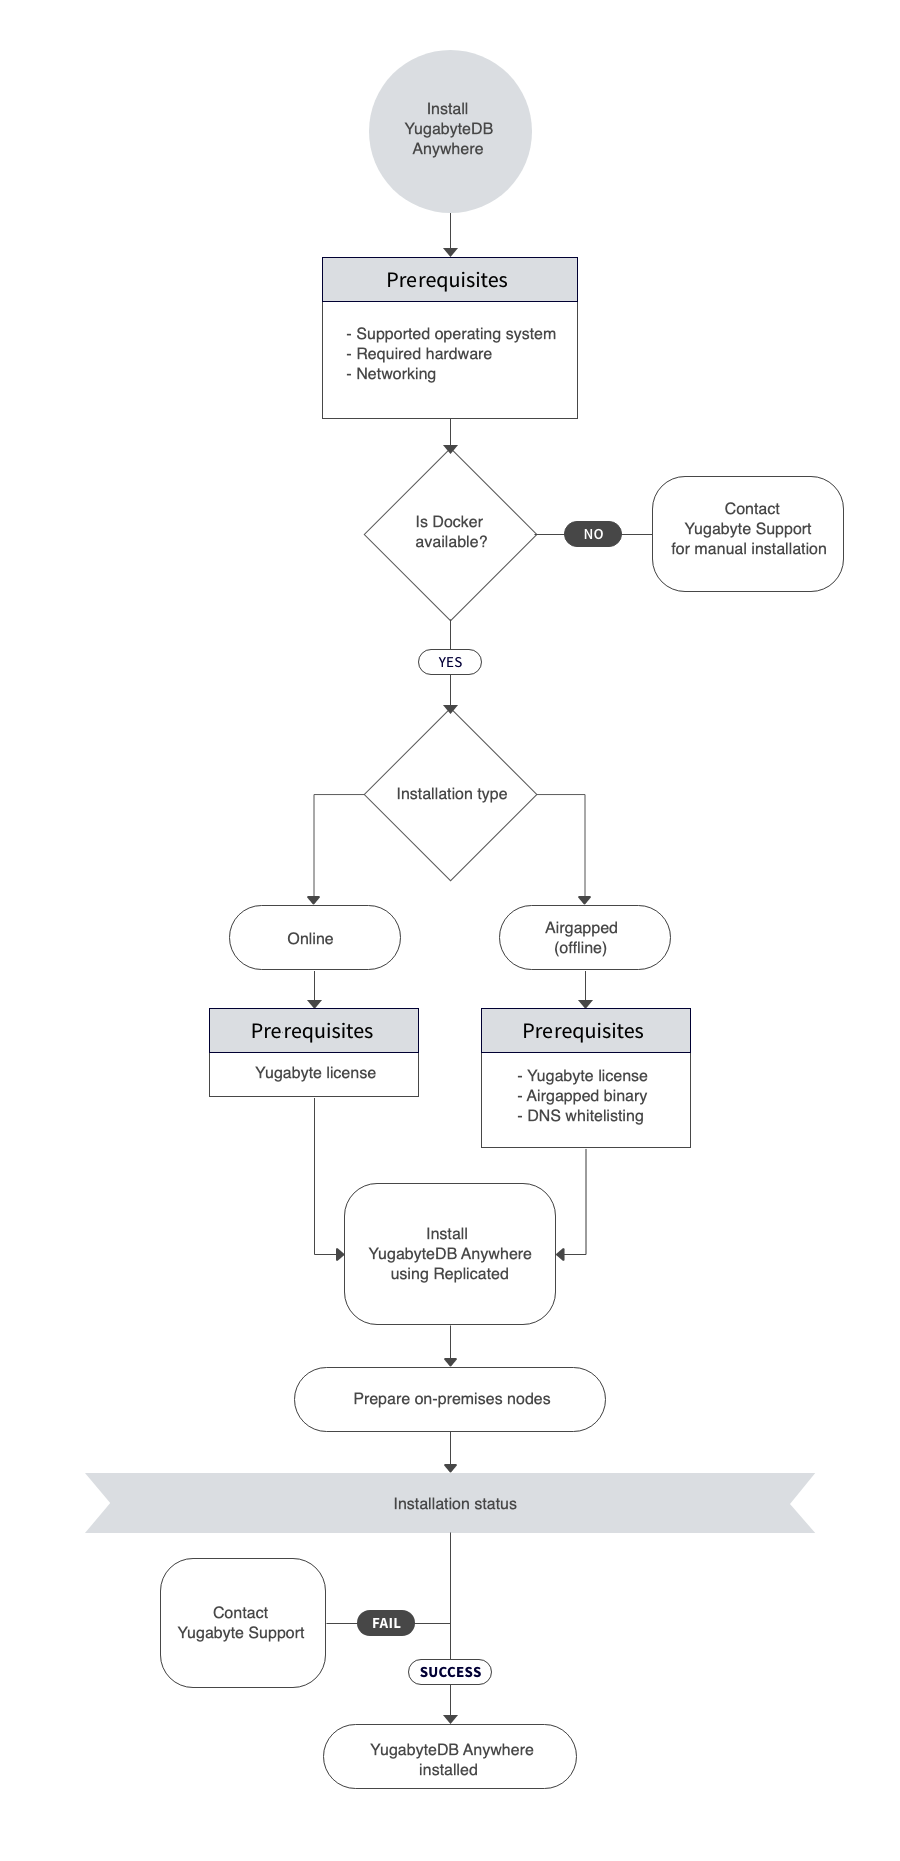
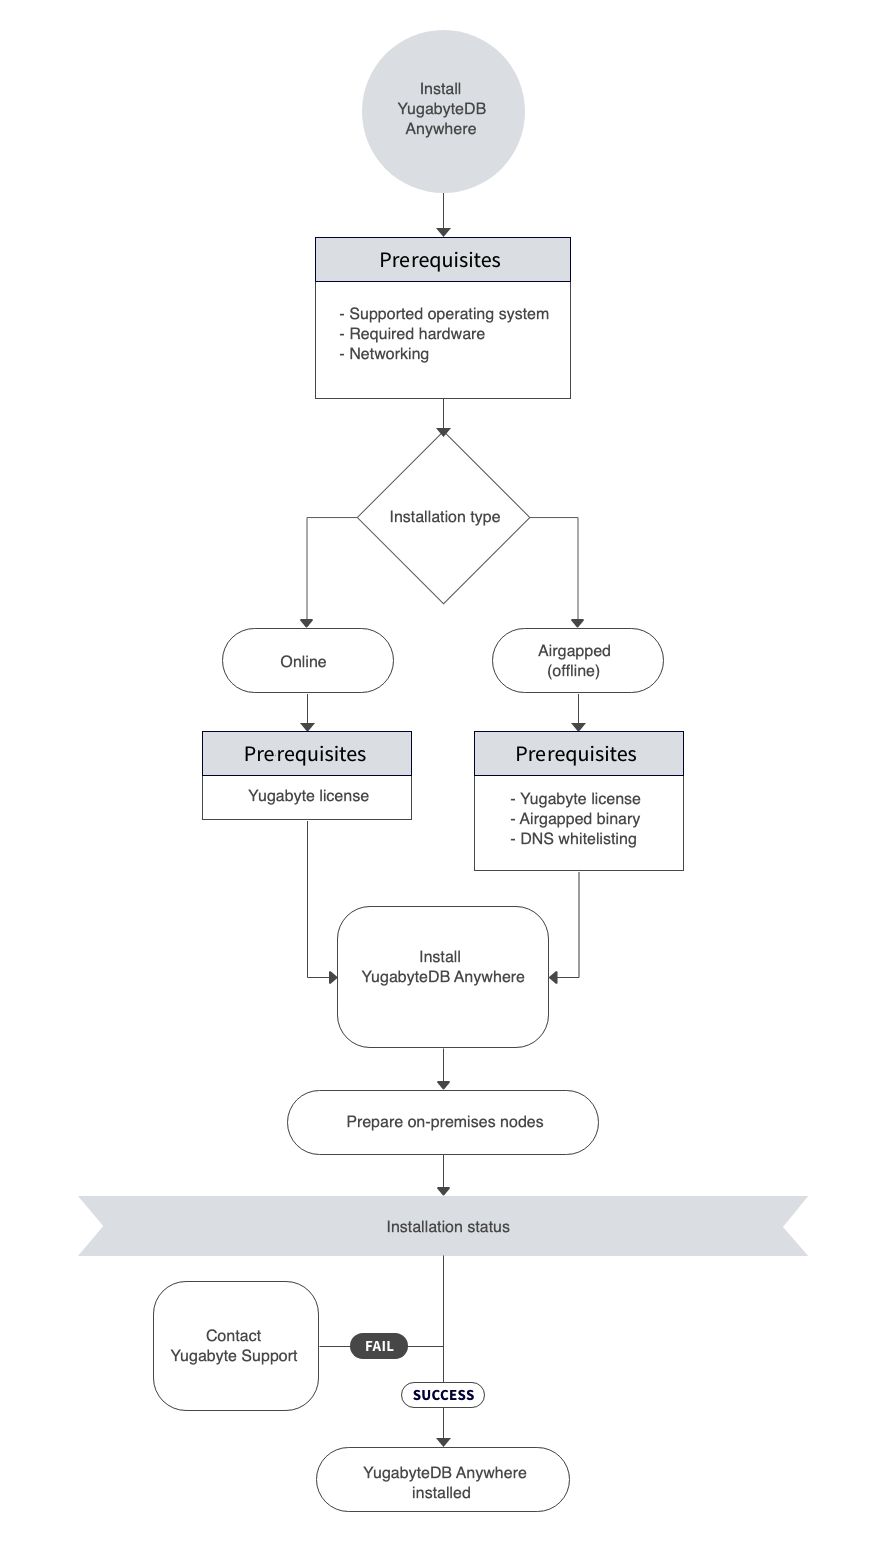
Update images, combine replicated and airgapped

diff --git a/docs/content/preview/yugabyte-platform/install-yugabyte-platform/install-software/default.md b/docs/content/preview/yugabyte-platform/install-yugabyte-platform/install-software/default.md
@@ -31,11 +31,6 @@ Note: For higher availability, one or more additional YugabyteDB Anywhere instan
   </li>
 
   <li>
-    <a href="../airgapped/" class="nav-link">
-      <i class="fa-solid fa-link-slash"></i>Replicated - Airgapped</a>
-  </li>
-
-  <li>
     <a href="../kubernetes/" class="nav-link">
       <i class="fa-regular fa-dharmachakra" aria-hidden="true"></i>Kubernetes</a>
   </li>
@@ -47,9 +42,13 @@ Note: For higher availability, one or more additional YugabyteDB Anywhere instan
 
 </ul>
 
-Install YugabyteDB Anywhere on a host machine that is connected to the Internet using Replicated.
+You can install YugabyteDB Anywhere on a host machine using Replicated in both online and airgapped environments.
 
 ## Install Replicated
+
+{{< tabpane text=true >}}
+
+  {{% tab header="Online" lang="Online" %}}
 
 The first step is to connect to the host instance and then install Replicated by executing the following command:
 
@@ -74,9 +73,85 @@ You should see an output similar to the following:
 
 ![Replicated successfully installed](/images/replicated/replicated-success.png)
 
+  {{% /tab %}}
+
+  {{% tab header="Airgapped" lang="Airgapped" %}}
+
+If Docker is not installed on the host computer, you need to install a recent version that matches the minimum requirements outlined in [Installing Docker in Airgapped Environments](https://community.replicated.com/t/installing-docker-in-airgapped-environments/81).
+
+If access to the Docker repositories for your Linux distribution is not available on the host computer, you may have to manually transfer the necessary RPM or DEB packages whose locations are specified in [Installing Docker in Airgapped Environments](https://community.replicated.com/t/installing-docker-in-airgapped-environments/81).
+
+Refer to [Airgapped hosts](../../prerequisites/default/#airgapped-hosts) for more details on preparing your host machine.
+
+On a computer connected to the Internet, perform the following steps:
+
+- Make a directory for downloading the binaries by executing the following command:
+
+  ```sh
+  sudo mkdir /opt/downloads
+  ```
+
+- Change the owner user for the directory by executing the following command:
+
+  ```sh
+  sudo chown -R ubuntu:ubuntu /opt/downloads
+  ```
+
+- Change to the directory by executing the following command:
+
+  ```sh
+  cd /opt/downloads
+  ```
+
+- Download the `replicated.tar.gz` file by executing the following command:
+
+  ```sh
+  wget --trust-server-names https://get.replicated.com/airgap
+  ```
+
+- Download the `yugaware` binary and change the following number, as required:
+
+  ```sh
+  wget https://downloads.yugabyte.com/releases/{{<yb-version version="preview">}}/yugaware-{{<yb-version version="preview" format="build">}}-linux-x86_64.airgap
+  ```
+
+- Switch to the following directory:
+
+  ```sh
+  cd /opt/downloads
+  ```
+
+- Extract the `replicated` binary, as follows:
+
+  ```sh
+  tar xzvf replicated.tar.gz
+  ```
+
+- Install Replicated. If multiple options appear, select the `eth0` network interface, as follows:
+
+  ```sh
+  cat ./install.sh | sudo bash -s airgap
+  ```
+
+The `yugaware` binary is installed using the Replicated UI after the Replicated installation completes.
+
+After Replicated finishes installing, ensure that it is running by executing the following command:
+
+```sh
+sudo docker ps
+```
+
+You should see an output similar to the following:
+
+![Replicated successfully installed](/images/replicated/replicated-success.png)
+
+  {{% /tab %}}
+
+{{< /tabpane >}}
+
 ## Set up HTTPS (optional)
 
-Launch the Replicated UI via http://< yugabyte-platform-host-public-ip >:8800. Expect to see a warning stating that the connection to the server is not yet private. This condition is resolved once HTTPS for the Replicated Admin Console is set up. Proceed by clicking **Continue to Setup > ADVANCED** to bypass the warning and access the Replicated Admin Console, as per the following illustration:
+Launch the Replicated UI via [http://yugaware-host-public-ip:8800](http://yugaware-host-public-ip:8800). Expect to see a warning stating that the connection to the server is not yet private. This condition is resolved once HTTPS for the Replicated Admin Console is set up in the next step. Proceed by clicking **Continue to Setup > ADVANCED** to bypass the warning and access the **Replicated Admin Console**, as shown in the following illustration:
 
 ![Replicated SSL warning](/images/replicated/replicated-warning.png)
 
@@ -90,13 +165,15 @@ It is recommended that you start with using a self-signed certificate, and then 
 
 ## Upload the license file
 
-When prompted, upload the Yugabyte license file that you received from Yugabyte, as per the following illustration:
+Upload the Yugabyte license file that you received from [Yugabyte](https://www.yugabyte.com/platform/#request-trial-form), as shown in the following illustration:
 
 ![Replicated License Upload](/images/replicated/replicated-license-upload.png)
 
-If you are prompted to choose an installation type, choose **Online**.
+When prompted to choose the installation type, do one of the following:
 
-If you are offered a choice of software versions, select the one that meets your requirements.
+- **Online** - If you are performing an online installation, choose the **Online** installation type and click **Continue**. If you are offered a choice of software versions, select the one that meets your requirements.
+
+- **Airgapped** - If you are performing an airgapped installation, choose the **Airgapped** installation type, enter the absolute path to the YugabyteDB Anywhere airgapped install package that you obtained from Yugabyte Suppport, and click **Continue**.
 
 ## Secure Replicated
 
@@ -116,7 +193,7 @@ If the preflight check fails, review the [Troubleshoot YugabyteDB Anywhere](../.
 
 ## Set the TLS version for Yugaware frontend
 
-Specify TLS versions via **Application config**, as shown in the following illustration:
+Under **Application config**, specify TLS versions as shown in the following illustration:
 
 ![Application Config](/images/replicated/application-config-tls.png)
 

diff --git a/docs/content/preview/yugabyte-platform/install-yugabyte-platform/install/private-cloud.md b/docs/content/preview/yugabyte-platform/install-yugabyte-platform/install/private-cloud.md
@@ -50,11 +50,11 @@ The following diagram shows the YugabyteDB Anywhere installation process in a pr
 <img src="/images/ee/flowchart/yb-install-private-cloud.png" usemap="#image-map">
 
 <map name="image-map">
-    <area alt="Pre reqs" title="Pre reqs" href="../../prerequisites/default/" coords="323,255,572,412" shape="rect" style="top: 14%;height: 8.6%;left: 36%;width: 28%;">
-    <area alt="Online installation" title="Online installation" href="../../install-software/default/" coords="239,907,396,970" shape="rect" style="top: 48.7%;height: 3.5%;left: 25%;width: 20%;">
-    <area alt="Airgapped installation" title="Airgapped installation" href="../../install-software/airgapped/" coords="512,909,663,967" shape="rect" style="top: 48.7%;height: 3.5%;left: 55%;width: 20%;">
-    <area alt="Airgapped installation - pre reqs" title="Airgapped installation - pre reqs" href="../../install-software/airgapped/" coords="482,1008,688,1141" shape="rect" style="top: 54%;height: 8%;left: 53%;width: 24%;">
-    <area alt="Online installation - pre reqs" title="Online installation - pre reqs" href="../../install-software/default/" coords="" shape="rect" style="top: 54%;height: 5%;left: 23%;width: 24%;">
-    <area alt="Prepare on prem nodes" title="Prepare on prem nodes" href="../../prepare-on-prem-nodes/" coords="307,1371,597,1429" shape="rect" style="top: 73.4%;height: 3.6%;left: 33%;width: 34%;">
+    <area alt="Pre reqs" title="Pre reqs" href="../../prerequisites/installer/" coords="323,255,572,412" shape="rect" style="top: 14%;height: 8.6%;left: 36%;width: 28%;">
+    <area alt="Online installation" title="Online installation" href="../../install-software/installer/" coords="239,707,396,770" shape="rect" style="top: 40.7%;height: 3.5%;left: 25%;width: 20%;">
+    <area alt="Airgapped installation" title="Airgapped installation" href="../../install-software/installer/" coords="512,709,663,767" shape="rect" style="top: 40.7%;height: 3.5%;left: 55%;width: 20%;">
+    <area alt="Online installation - pre reqs" title="Online installation - pre reqs" href="../../install-software/installer/" coords="" shape="rect" style="top: 47%;height: 6%;left: 23%;width: 24%;">
+    <area alt="Airgapped installation - pre reqs" title="Airgapped installation - pre reqs" href="../../install-software/installer/" coords="482,808,688,841" shape="rect" style="top: 47%;height: 10%;left: 53%;width: 24%;">
+    <area alt="Prepare on premises nodes" title="Prepare on premises nodes" href="../../prepare-on-prem-nodes/" coords="307,1200,597,1250" shape="rect" style="top: 70.4%;height: 3.6%;left: 33%;width: 34%;">
 </map>
 </div>

diff --git a/docs/content/preview/yugabyte-platform/install-yugabyte-platform/prerequisites-include.md b/docs/content/preview/yugabyte-platform/install-yugabyte-platform/prerequisites-include.md
@@ -99,22 +99,22 @@ You need to perform the following steps:
    ```properties
    image:
    commonRegistry: ""
-    	repository: **quay.io/yugabyte/yugaware**
-    	tag: **{{ version.build }}**
+      repository: **quay.io/yugabyte/yugaware**
+      tag: **{{ version.build }}**
    pullPolicy: IfNotPresent
    pullSecret: yugabyte-k8s-pull-secret
    thirdparty-deps:
-   	registry: quay.io
-   	tag: **latest**
-   	name: **yugabyte/thirdparty-deps**
+      registry: quay.io
+      tag: **latest**
+      name: **yugabyte/thirdparty-deps**
    prometheus:
-   	registry: ""
-   	tag:  **{{ version.prometheus }}**
-   	name: **prom/prometheus**
+      registry: ""
+      tag:  **{{ version.prometheus }}**
+      name: **prom/prometheus**
    nginx:
-   	registry: ""
-   	tag: **{{ version.nginx }}**
-   	name: nginx
+      registry: ""
+      tag: **{{ version.nginx }}**
+      name: nginx
    ```
 
 1. Pull images to your Docker Desktop, as follows:
@@ -298,25 +298,25 @@ You need to perform the following steps:
       pullPolicy: IfNotPresent
       pullSecret: yugabyte-k8s-pull-secret
       thirdparty-deps:
-      		registry: /yugabyte/thhirdparty-deps
-   			tag: **latest**
-   			name: **yugabyte/thirdparty-deps**
+            registry: /yugabyte/thhirdparty-deps
+            tag: **latest**
+            name: **yugabyte/thirdparty-deps**
       postgres:
-   			registry: "yugabyte/postgres"
-   			tag: 11.5
-   			name: **postgres**
+            registry: "yugabyte/postgres"
+            tag: 11.5
+            name: **postgres**
       prometheus:
-   			registry: "prom/prometheus"
-   			tag: **v2.2.1**
-   			name: **prom/prometheus**
+            registry: "prom/prometheus"
+            tag: **v2.2.1**
+            name: **prom/prometheus**
       nginx:
-   			registry: "yugabyte/nginx"
-   			tag: **1.17.4**
-   			name: nginx
+            registry: "yugabyte/nginx"
+            tag: **1.17.4**
+            name: nginx
       dnsmasq:
-   			registry: "janeczku/go-dnsmasq/"
-   			tag: **release-1.0.7**
-   			name: **janeczku/go-dnsmasq
+            registry: "janeczku/go-dnsmasq/"
+            tag: **release-1.0.7**
+            name: **janeczku/go-dnsmasq
    ```
 
 1. Install Helm chart or specify the container registry in YugabyteDB Anywhere cloud provider, as follows:

diff --git a/docs/content/preview/yugabyte-platform/install-yugabyte-platform/install-software/airgapped.md b/docs/content/preview/yugabyte-platform/install-yugabyte-platform/install-software/airgapped.md
@@ -121,7 +121,7 @@ The next step is to install YugabyteDB Anywhere.
 
 ## Set Up HTTPS (optional)
 
-Launch the Replicated UI via [http://yugaware-host-public-ip:8800](http://yugaware-host-public-ip:8800). Expect to see a warning stating that the connection to the server is not yet private. This condition is resolved once HTTPS for the Replicated Admin Console is set up in the next step. Proceed by clicking **Continue to Setup** **>** **ADVANCED** to bypass the warning and access the **Replicated Admin Console**, as shown in the following illustration:
+Launch the Replicated UI via [http://yugaware-host-public-ip:8800](http://yugaware-host-public-ip:8800). Expect to see a warning stating that the connection to the server is not yet private. This condition is resolved once HTTPS for the Replicated Admin Console is set up in the next step. Proceed by clicking **Continue to Setup > ADVANCED** to bypass the warning and access the **Replicated Admin Console**, as shown in the following illustration:
 
 ![Replicated SSL warning](/images/replicated/replicated-warning.png)
 
@@ -153,7 +153,7 @@ Add a password to protect the Replicated Admin Console, which is different from 
 
 ![Replicated Password](/images/replicated/replicated-password.png)
 
-## Preflight checks
+## Perform preflight checks
 
 Replicated performs a set of preflight checks to ensure that the host is set up correctly for YugabyteDB Anywhere, as shown in the following illustration:
 

diff --git a/docs/content/preview/yugabyte-platform/install-yugabyte-platform/install-software/installer.md b/docs/content/preview/yugabyte-platform/install-yugabyte-platform/install-software/installer.md
@@ -31,11 +31,6 @@ Note: For higher availability, one or more additional YBA instances can be separ
   </li>
 
   <li>
-    <a href="../airgapped/" class="nav-link">
-      <i class="fa-solid fa-link-slash"></i>Replicated - Airgapped</a>
-  </li>
-
-  <li>
     <a href="../kubernetes/" class="nav-link">
       <i class="fa-regular fa-dharmachakra" aria-hidden="true"></i>Kubernetes</a>
   </li>
@@ -47,7 +42,7 @@ Note: For higher availability, one or more additional YBA instances can be separ
 
 </ul>
 
-Use YBA Installer to install YBA on a host. YBA Installer performs preflight checks to validate the workspace is ready to run YBA. YBA Installer also provides basic functionality for managing installations, including backup and restore of an installation, upgrading, basic licensing, and uninstalling the software.
+Use YBA Installer to install YBA on a host, either online or airgapped. YBA Installer performs preflight checks to validate the workspace is ready to run YBA. YBA Installer also provides basic functionality for managing installations, including backup and restore of an installation, upgrading, basic licensing, and uninstalling the software.
 
 {{< warning >}}
 You can use YBA Installer only if you are about to perform a new install. Currently, you cannot switch your existing YBA software installed via Replicated to be installed using YBA Installer.

diff --git a/docs/content/preview/yugabyte-platform/install-yugabyte-platform/prerequisites/default.md b/docs/content/preview/yugabyte-platform/install-yugabyte-platform/prerequisites/default.md
@@ -16,13 +16,13 @@ You can install YugabyteDB Anywhere (YBA) using the following methods:
 
 | Method | Using | Use If |
 | :--- | :--- | :--- |
-| YBA Installer | yba-ctl CLI | You can't use Docker containers. |
-| Replicated | Docker containers | You're able to use Docker containers. |
+| YBA Installer | yba-ctl CLI | You are performing a reguler installation. |
+| Replicated | Docker containers | You want to use Docker containers. |
 | Kubernetes | Helm chart | You're deploying in Kubernetes. |
 
 All installation methods support installing YBA with and without (airgapped) Internet connectivity.
 
-Licensing (such as a license file in the case of Replicated, or appropriate repository access in the case of Kubernetes) may be required prior to installation.  Contact {{% support-platform %}} for assistance.
+Licensing (such as a license file in the case of YBA Installer or Replicated, or appropriate repository access in the case of Kubernetes) may be required prior to installation.  Contact {{% support-platform %}} for assistance.
 
 <ul class="nav nav-tabs-alt nav-tabs-yb">
 

diff --git a/docs/content/preview/yugabyte-platform/install-yugabyte-platform/prerequisites/installer.md b/docs/content/preview/yugabyte-platform/install-yugabyte-platform/prerequisites/installer.md
@@ -16,13 +16,13 @@ You can install YugabyteDB Anywhere (YBA) using the following methods:
 
 | Method | Using | Use If |
 | :--- | :--- | :--- |
-| YBA Installer | yba-ctl CLI | You can't use Docker containers. |
-| Replicated | Docker containers | You're able to use Docker containers. |
+| YBA Installer | yba-ctl CLI | You are performing a reguler installation. |
+| Replicated | Docker containers | You want to use Docker containers. |
 | Kubernetes | Helm chart | You're deploying in Kubernetes. |
 
 All installation methods support installing YBA with and without (airgapped) Internet connectivity.
 
-Licensing (such as a license file in the case of Replicated, or appropriate repository access in the case of Kubernetes) may be required prior to installation.  Contact {{% support-platform %}} for assistance.
+Licensing (such as a license file in the case of YBA Installer or Replicated, or appropriate repository access in the case of Kubernetes) may be required prior to installation.  Contact {{% support-platform %}} for assistance.
 
 <ul class="nav nav-tabs-alt nav-tabs-yb">
 

diff --git a/docs/content/preview/yugabyte-platform/install-yugabyte-platform/prerequisites/kubernetes.md b/docs/content/preview/yugabyte-platform/install-yugabyte-platform/prerequisites/kubernetes.md
@@ -16,13 +16,13 @@ You can install YugabyteDB Anywhere (YBA) using the following methods:
 
 | Method | Using | Use If |
 | :--- | :--- | :--- |
-| YBA Installer | yba-ctl CLI | You can't use Docker containers. |
-| Replicated | Docker containers | You're able to use Docker containers. |
+| YBA Installer | yba-ctl CLI | You are performing a reguler installation. |
+| Replicated | Docker containers | You want to use Docker containers. |
 | Kubernetes | Helm chart | You're deploying in Kubernetes. |
 
 All installation methods support installing YBA with and without (airgapped) Internet connectivity.
 
-Licensing (such as a license file in the case of Replicated, or appropriate repository access in the case of Kubernetes) may be required prior to installation.  Contact {{% support-platform %}} for assistance.
+Licensing (such as a license file in the case of YBA Installer or Replicated, or appropriate repository access in the case of Kubernetes) may be required prior to installation.  Contact {{% support-platform %}} for assistance.
 
 <ul class="nav nav-tabs-alt nav-tabs-yb">
 

diff --git a/docs/content/preview/yugabyte-platform/install-yugabyte-platform/install-software/kubernetes.md b/docs/content/preview/yugabyte-platform/install-yugabyte-platform/install-software/kubernetes.md
@@ -29,11 +29,6 @@ Note: For higher availability, one or more additional YugabyteDB Anywhere instan
   </li>
 
   <li>
-    <a href="../airgapped/" class="nav-link">
-      <i class="fa-solid fa-link-slash"></i>Replicated - Airgapped</a>
-  </li>
-
-  <li>
     <a href="../kubernetes/" class="nav-link active">
       <i class="fa-regular fa-dharmachakra" aria-hidden="true"></i>Kubernetes</a>
   </li>

diff --git a/docs/content/preview/yugabyte-platform/install-yugabyte-platform/install-software/openshift.md b/docs/content/preview/yugabyte-platform/install-yugabyte-platform/install-software/openshift.md
@@ -29,11 +29,6 @@ Note: For higher availability, one or more additional YugabyteDB Anywhere instan
   </li>
 
   <li>
-    <a href="../airgapped/" class="nav-link">
-      <i class="fa-solid fa-link-slash"></i>Replicated - Airgapped</a>
-  </li>
-
-  <li>
     <a href="../kubernetes/" class="nav-link">
       <i class="fa-regular fa-dharmachakra" aria-hidden="true"></i>Kubernetes</a>
   </li>
